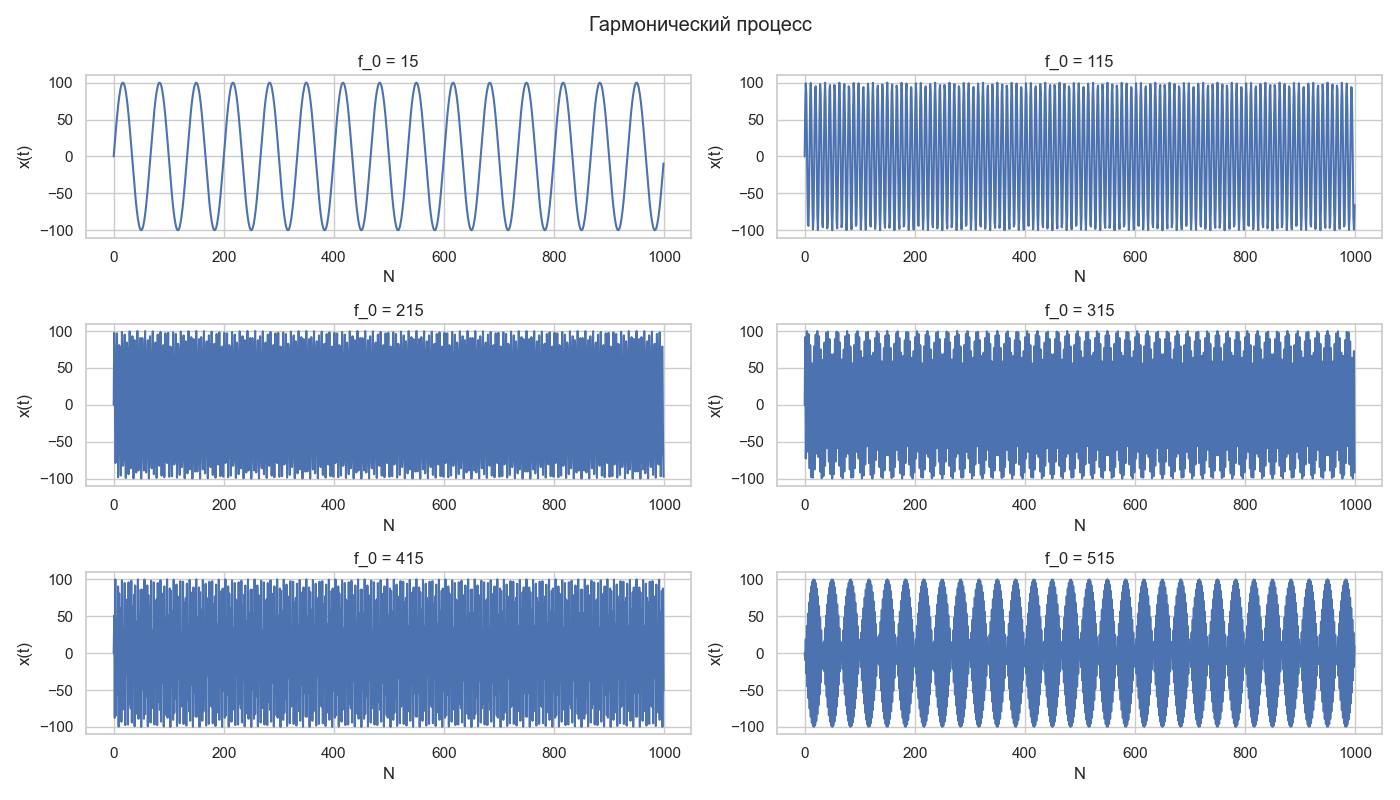
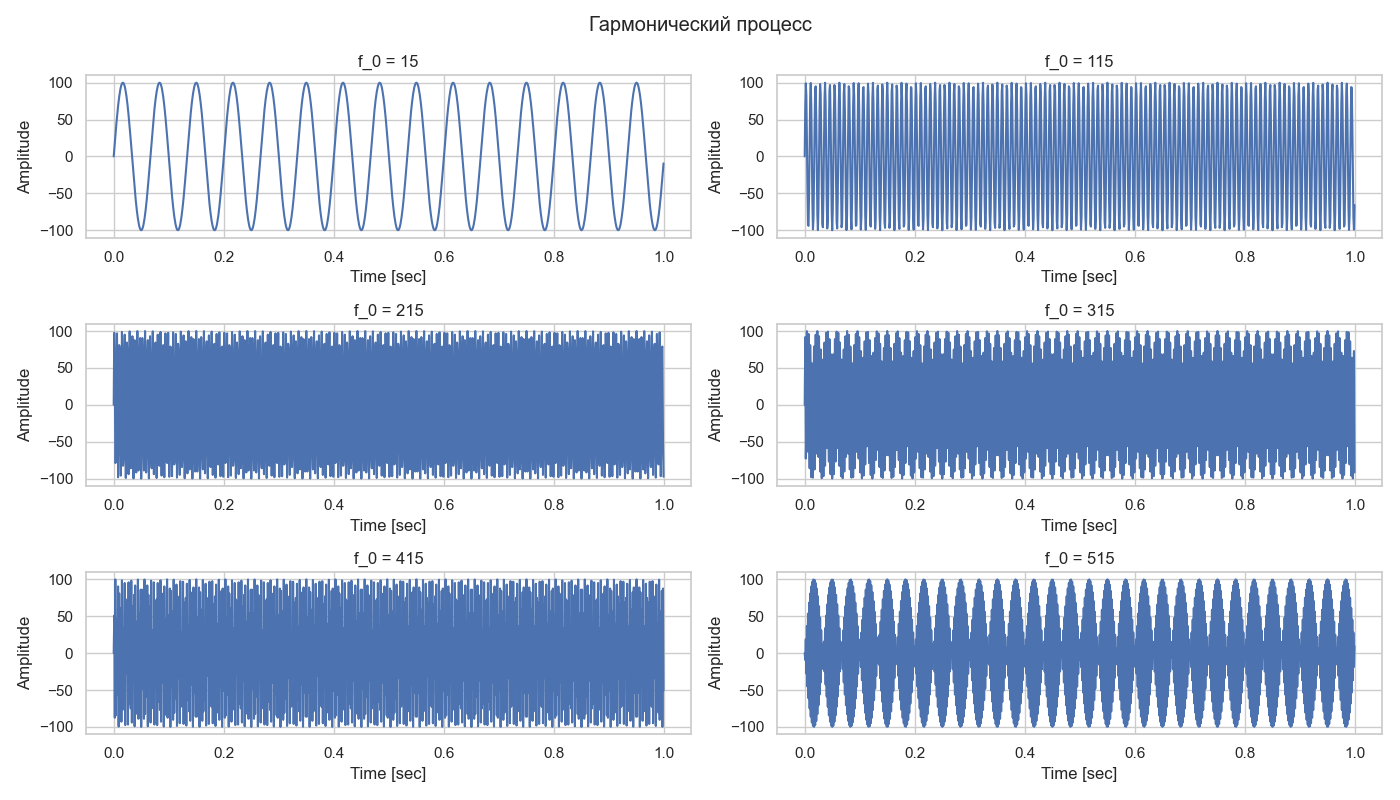
lab5: modified plots

diff --git a/Lab5/src/main.py b/Lab5/src/main.py
@@ -7,8 +7,8 @@ from src.model import Model, TrendFuncs
 
 def make_line_plot(title: str, x: np.ndarray, y: np.ndarray):
     plot = sns.lineplot(x=x, y=y)
-    plot.set_xlabel('N', fontsize=12)
-    plot.set_ylabel('x(t)', fontsize=12)
+    plot.set_xlabel('Time [sec]', fontsize=12)
+    plot.set_ylabel('Amplitude', fontsize=12)
     plt.title(title)
     return plot
 
@@ -17,10 +17,11 @@ def test_harm_method():
     A0 = 100
     f = [15 + 100 * i for i in range(6)]
     dt = 0.001
+    time = np.arange(0, N*dt, dt)
     for i in range(len(f)):
         plt.subplot(3, 2, i+1)
         data = Model.harm(N, A0, f[i], dt)
-        make_line_plot(f'f_0 = {f[i]}', np.arange(N), data)
+        make_line_plot(f'f_0 = {f[i]}', time, data)
 
 def test_polyHarm_method():
     N = 1000
@@ -28,8 +29,10 @@ def test_polyHarm_method():
     A = [100, 15, 20]
     f = [33, 5, 170]
     dt = 0.002
+
     data = Model.polyHarm(N, A, f, M, dt)
-    make_line_plot('', np.arange(N), data)
+    time = np.arange(0, N*dt, dt)
+    make_line_plot('', time, data)
     print(f'Частота полигармонического процесса: {np.max(f)}')
 
 def test_addModel_method():
@@ -40,27 +43,27 @@ def test_addModel_method():
     f = 50
     dt = 0.002
     N = 1000
-    t = np.arange(0.0, N*dt, dt)
 
-    data1 = TrendFuncs.linear_func(t, a[0], b[0])
+    time = np.arange(0, N*dt, dt)
+    data1 = TrendFuncs.linear_func(time, a[0], b[0])
     data2 = Model.harm(N, A, f, dt)
     result = Model.addModel(data1, data2)  # linear trend + harm
     plt.subplot(2, 3, 1)
-    make_line_plot('Linear trend + Harm', np.arange(N), result)
+    make_line_plot('Linear trend + Harm', time, result)
     plt.subplot(2, 3, 2)
-    make_line_plot('Linear trend', np.arange(N), data1)
+    make_line_plot('Linear trend', time, data1)
     plt.subplot(2, 3, 3)
-    make_line_plot('Harm', np.arange(N), data2)
+    make_line_plot('Harm', time, data2)
 
-    data1 = TrendFuncs.exp_func(t, a[1], b[1])
+    data1 = TrendFuncs.exp_func(time, a[1], b[1])
     data2 = Model.noise(N, R)
     result = Model.addModel(data1, data2)  # exp trend + noise
     plt.subplot(2, 3, 4)
-    make_line_plot('Exp trend + Noise', np.arange(N), result)
+    make_line_plot('Exp trend + Noise', time, result)
     plt.subplot(2, 3, 5)
-    make_line_plot('Exp trend', np.arange(N), data1)
+    make_line_plot('Exp trend', time, data1)
     plt.subplot(2, 3, 6)
-    make_line_plot('Noise', np.arange(N), data2)
+    make_line_plot('Noise', time, data2)
 
 def test_multModel_method():
     a = [0.3, 0.05]
@@ -70,27 +73,27 @@ def test_multModel_method():
     f = 50
     dt = 0.002
     N = 1000
-    t = np.arange(0.0, N*dt, dt)
 
-    data1 = TrendFuncs.linear_func(t, a[0], b[0])
+    time = np.arange(0.0, N*dt, dt)
+    data1 = TrendFuncs.linear_func(time, a[0], b[0])
     data2 = Model.harm(N, A, f, dt)
     result = Model.multModel(data1, data2)  # linear trend + harm
     plt.subplot(2, 3, 1)
-    make_line_plot('Linear trend + Harm', np.arange(N), result)
+    make_line_plot('Linear trend + Harm', time, result)
     plt.subplot(2, 3, 2)
-    make_line_plot('Linear trend', np.arange(N), data1)
+    make_line_plot('Linear trend', time, data1)
     plt.subplot(2, 3, 3)
-    make_line_plot('Harm', np.arange(N), data2)
+    make_line_plot('Harm', time, data2)
 
-    data1 = TrendFuncs.exp_func(t, a[1], b[1])
+    data1 = TrendFuncs.exp_func(time, a[1], b[1])
     data2 = Model.noise(N, R)
     result = Model.multModel(data1, data2)  # exp trend + noise
     plt.subplot(2, 3, 4)
-    make_line_plot('Exp trend + Noise', np.arange(N), result)
+    make_line_plot('Exp trend + Noise', time, result)
     plt.subplot(2, 3, 5)
-    make_line_plot('Exp trend', np.arange(N), data1)
+    make_line_plot('Exp trend', time, data1)
     plt.subplot(2, 3, 6)
-    make_line_plot('Noise', np.arange(N), data2)
+    make_line_plot('Noise', time, data2)
 
 
 if __name__ == '__main__':
